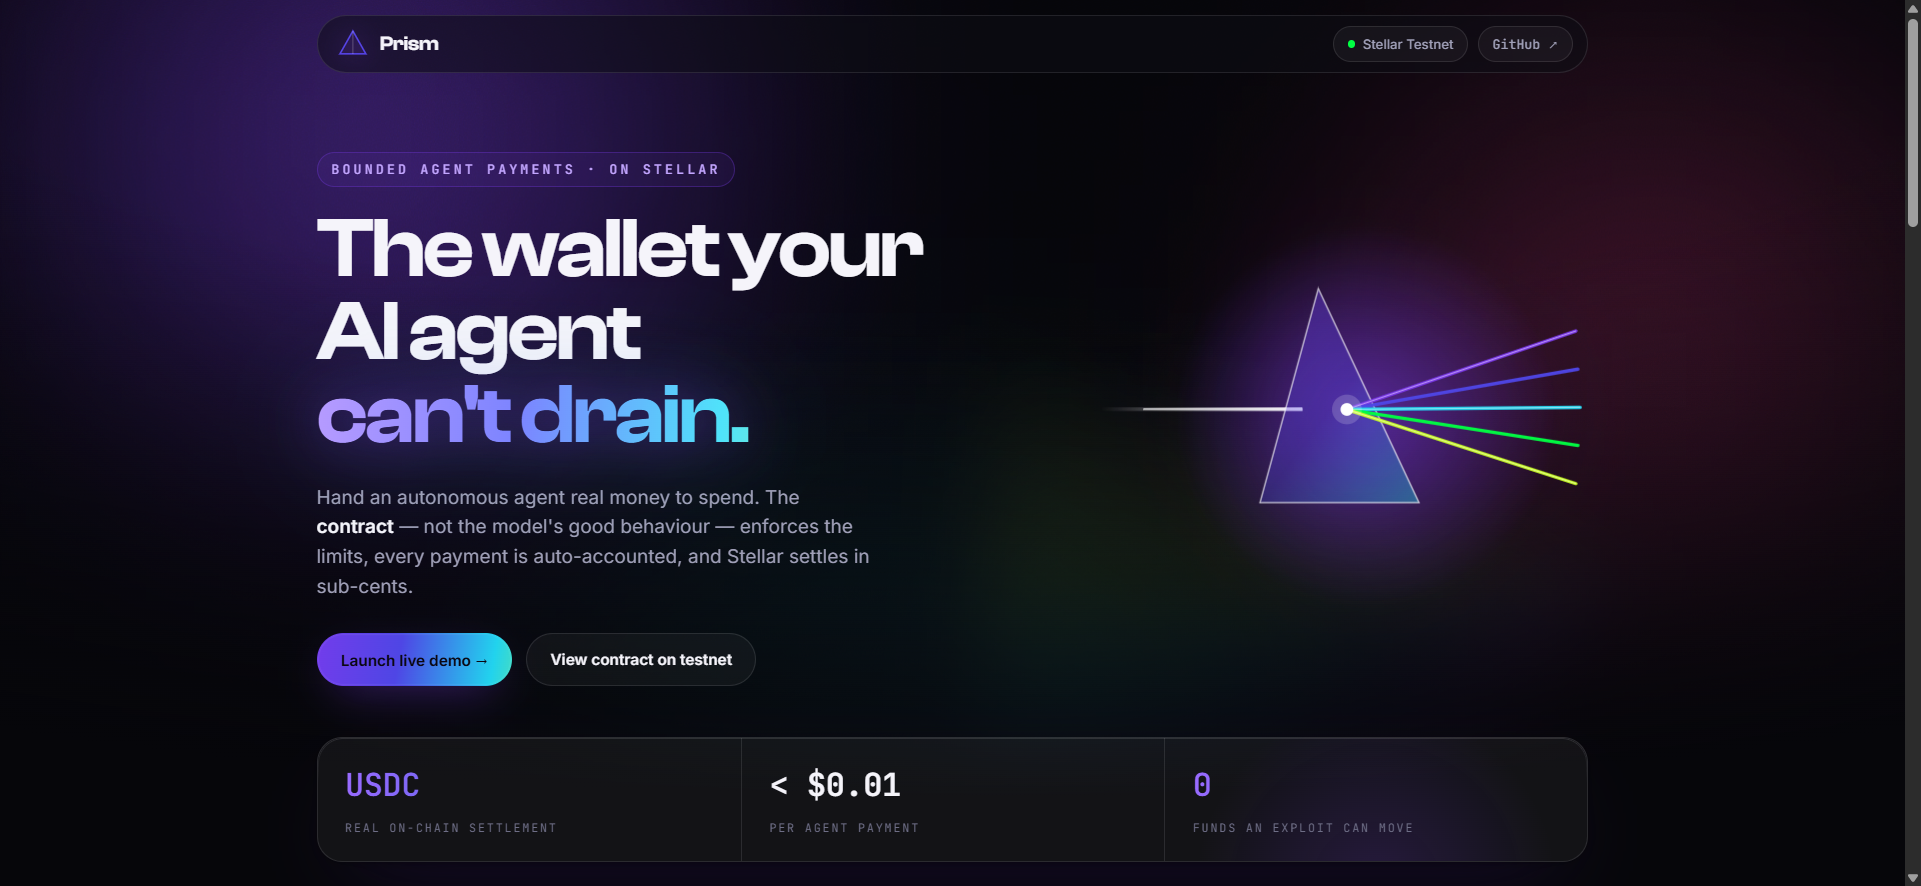
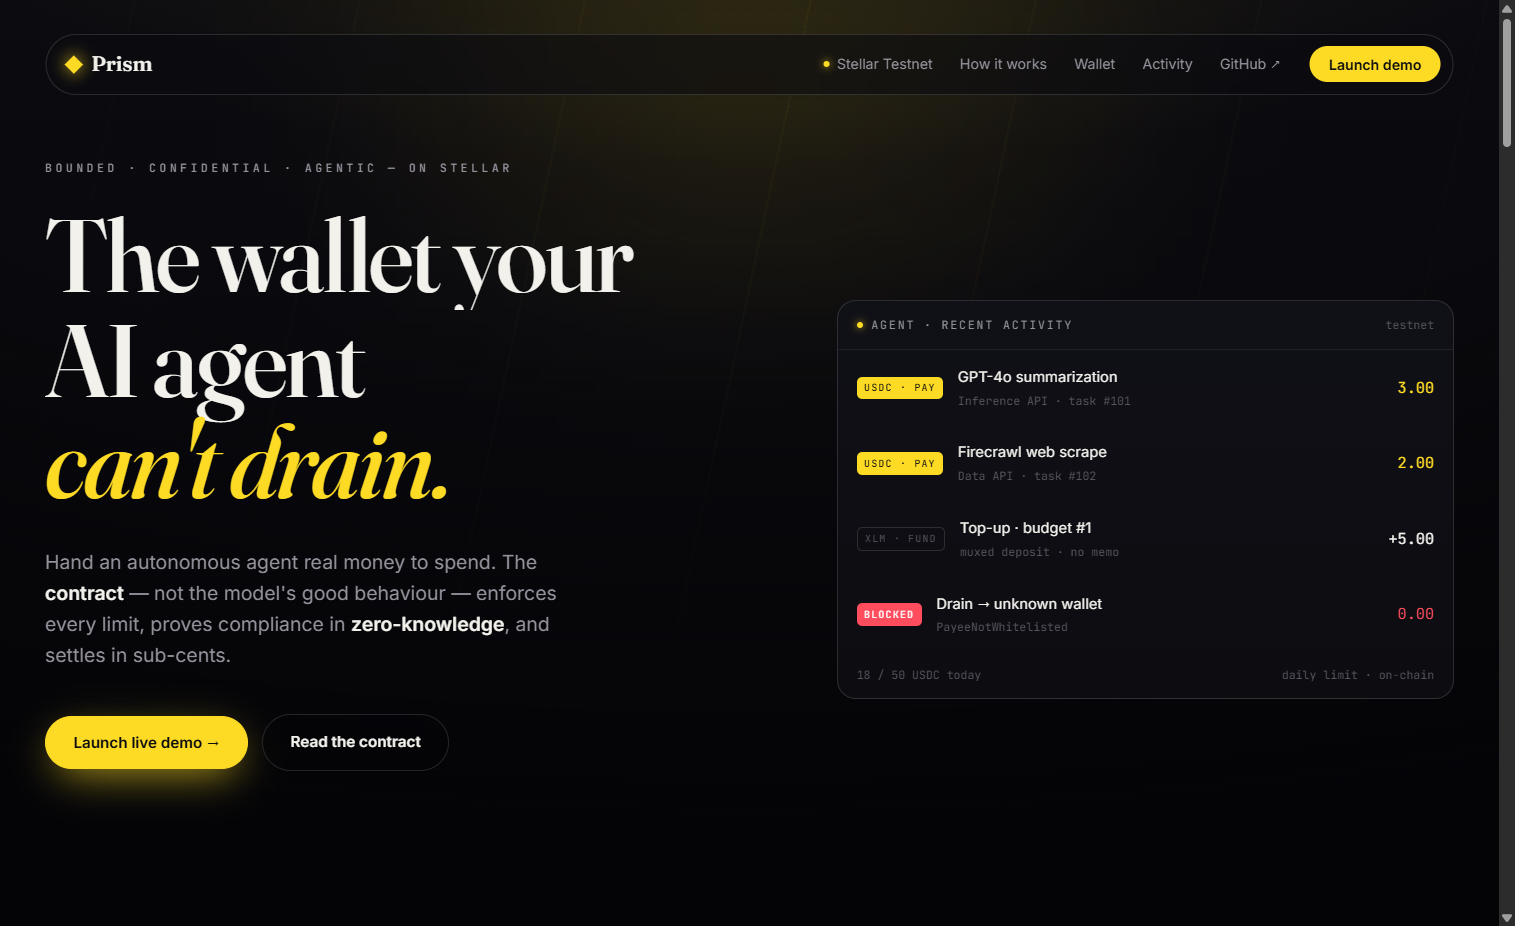
docs(readme): define hackathon scope (Jeremy) + refresh badges/hero/confidential step
Add a top-of-README 'Built during Stellar Hacks: Real-World ZK' section dating the
ZK work (Jun 18-22) per the organizer's request. Unify badges to Stellar-yellow and
fix the test counts (circuit 5/5 + verifier 4/4). Replace the stale spectral hero
screenshot with the new cinematic one, add a confidential-mode demo step, and correct
'OKLCH spectral' to the current cinematic design.

diff --git a/README.md b/README.md
@@ -7,17 +7,31 @@
 A non-custodial Soroban treasury that lets a business hand an autonomous AI agent **real money to spend** — where the **contract**, not the model's good behaviour, enforces the limits. Every payment is auto-accounted, and Stellar settles in sub-cents.
 
 [![CI](https://github.com/Bekirerdem/prism/actions/workflows/ci.yml/badge.svg)](https://github.com/Bekirerdem/prism/actions/workflows/ci.yml)
-![Build on Stellar](https://img.shields.io/badge/Build_on_Stellar-IBW_2026-7C3AED?style=flat-square)
-![Network](https://img.shields.io/badge/network-Stellar_testnet-22D3EE?style=flat-square)
-![Contract](https://img.shields.io/badge/contract-Rust_·_Soroban-E06C2B?style=flat-square)
-![Tests](https://img.shields.io/badge/tests-treasury_14%2F14_·_zk_7%2F7-00FF43?style=flat-square)
-![License](https://img.shields.io/badge/license-MIT-A0A0B8?style=flat-square)
+![Stellar testnet](https://img.shields.io/badge/Stellar-testnet-FDDA24?style=flat-square)
+![Rust · Soroban](https://img.shields.io/badge/Rust_·_Soroban-FDDA24?style=flat-square)
+![Tests](https://img.shields.io/badge/tests-treasury_14%2F14_·_circuit_5%2F5_·_verifier_4%2F4-FDDA24?style=flat-square)
+![License](https://img.shields.io/badge/license-MIT-3a3a3a?style=flat-square)
 
 **[▶ Live demo](https://web-five-psi-7iqrhfurdh.vercel.app) · [🎤 Pitch deck](https://deck-bice-omega.vercel.app) · [🔗 Contract on Stellar Expert](https://stellar.expert/explorer/testnet/contract/CAYWNXHANRY5GSJAZOR4YTKBKNOKTCITE52ZRKDKCAWLDTYWFFVFSPAZ) · [📄 Deployment & proofs](DEPLOYMENT.md)**
 
 <img src="docs/hero.png" alt="Prism — the wallet your AI agent can't drain" width="840" />
 
 </div>
+
+---
+
+## 🏆 Built during Stellar Hacks: Real-World ZK
+
+Prism's bounded-treasury core predates this hackathon (built at IBW 2026). **Everything zero-knowledge — Prism's entire Confidential layer — was designed and built inside the Stellar Hacks: Real-World ZK window (June 18–22, 2026)**, and is the focus of this submission:
+
+| Date | Built this hackathon |
+|---|---|
+| Jun 18 | Confidential ZK design spec |
+| Jun 19 | Compliance **circuit** (Circom/BN254): per-task range + daily-sum bounds · `Poseidon` commitments · Poseidon-Merkle whitelist membership · Groth16 trusted setup (Hermez ptau) · **on-chain BN254 verifier + attestation** (`CCOLX7NE…`) |
+| Jun 21 | **Hardened verifier** — anchored-policy binding + replay guard, with a live replay-rejected proof on testnet · CSPRNG commitment salt (closed a hiding break) |
+| Jun 22 | **Confidential-mode demo** on the dashboard — commitments + proof + the live attested tx |
+
+Also built in this window (the open-economy trust layer): reputation-gated payees, outcome-bound escrow, and the bounded x402 buyer. Every item is in the git history and verified on testnet (links throughout this README).
 
 ---
 
@@ -128,8 +142,9 @@ Three upgrades take Prism from a walled garden to the open agent economy — eac
 
 1. **Run agent tasks** — the agent autonomously settles 3 vendor payments in USDC. No wallet popup; it signs its own transactions. Each lands with a real Stellar Expert tx link.
 2. **Simulate prompt-injection** — tell the agent to send funds to an unapproved wallet. The contract **rejects it on-chain** (`PayeeNotWhitelisted`). Funds never move. 🔴
-3. **Auto-reconciled spend** — per-task accounting, read straight from the contract.
-4. **Funding rail** — fund a budget via its zero-cost muxed sub-address; the deposit is attributed on-chain with no memo.
+3. **Confidential mode (ZK)** — the same payments shown as `Poseidon` commitments: amount and payee hidden, yet proven within policy and **attested on-chain** (live verify tx). 🔒
+4. **Auto-reconciled spend** — per-task accounting, read straight from the contract.
+5. **Funding rail** — fund a budget via its zero-cost muxed sub-address; the deposit is attributed on-chain with no memo.
 
 ## Live on testnet
 
@@ -205,7 +220,7 @@ docs/                           narrative + assets, design spec & plan
 - **Contract:** Rust / `soroban-sdk` 26 (Soroban, Stellar testnet)
 - **Confidential (ZK):** Circom + `circomlib` (BN254) · snarkjs Groth16 · on-chain verifier via `soroban-verifier-gen` (`bn254_multi_pairing_check`)
 - **Client:** `stellar contract bindings typescript` → typed client
-- **Frontend:** Vite + React 19 + TypeScript, framer-motion, OKLCH spectral design system
+- **Frontend:** Vite + React 19 + TypeScript, framer-motion, cinematic dark design (Stellar-yellow accent)
 - **Trust + rails:** ERC-8004 agent identity + **reputation-gated payees (live)** ([trionlabs/stellar-8004](https://stellar.expert/explorer/testnet/contract/CDE3K4COIAGWNNJQQLL26SYI3KBJF5FUDHXG5FA6GYDJCG7T5V7FIWZH) in production; a stand-in oracle on testnet); **escrow** for pay-on-delivery; a **bounded x402** buyer that caps an agent's pay-per-use API spend.
 
 ## Security